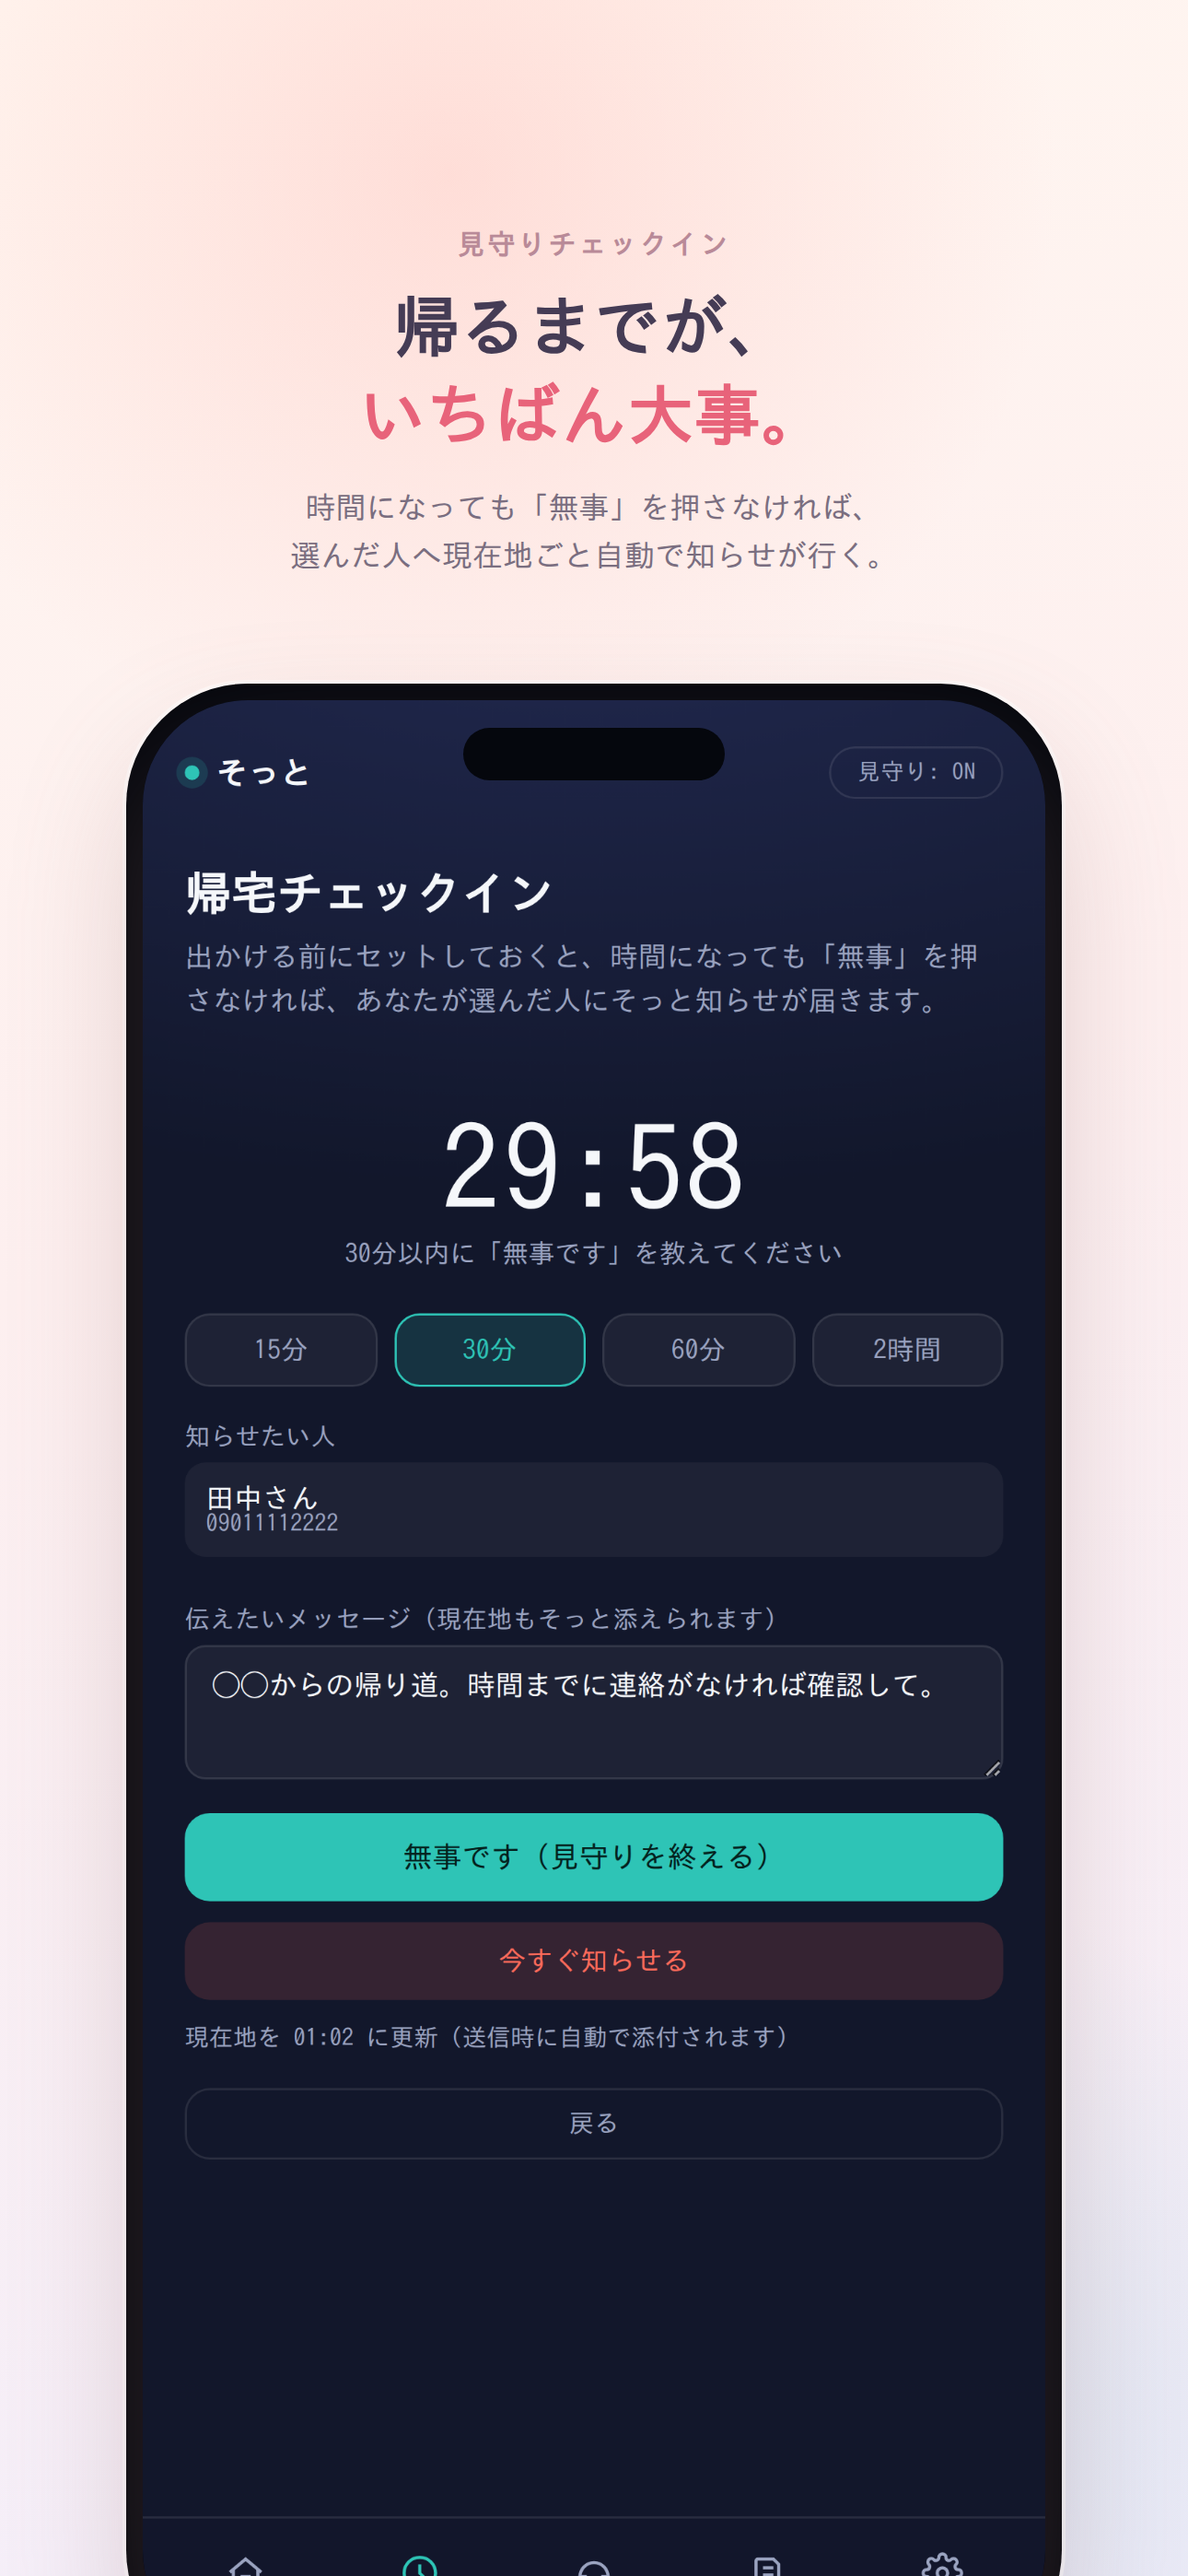
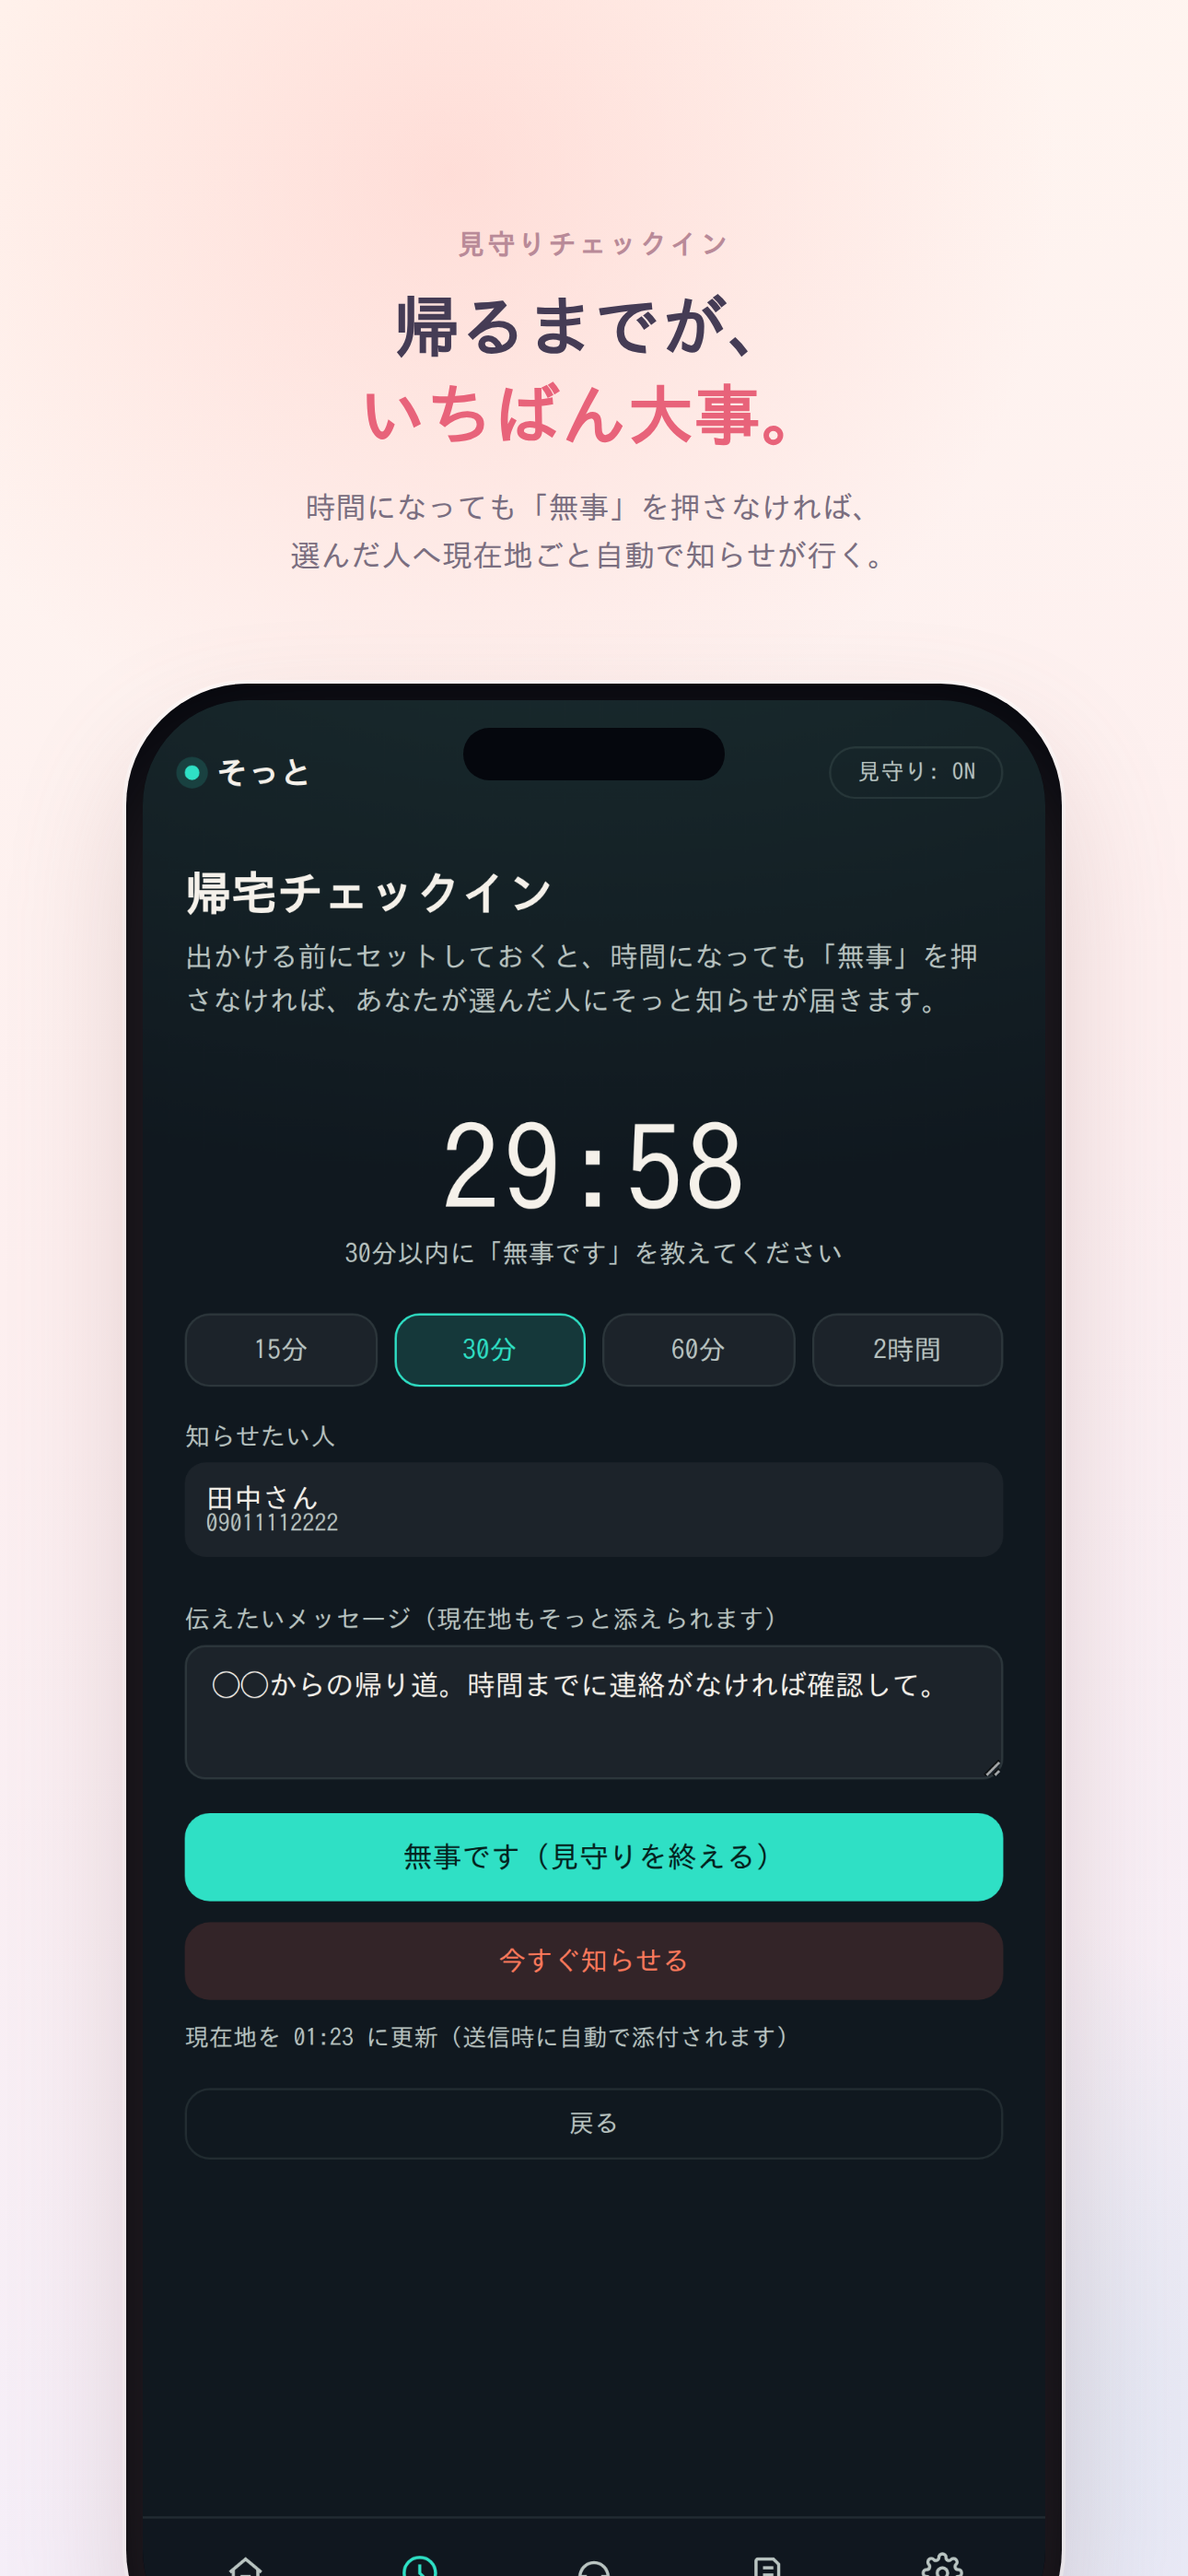
Redesign light/dark palette based on 2026 wellness-app color trends
Researched what top-performing apps (Headspace, Calm, Duolingo) and
current wellness/health UI trend reports converge on for 2026: avoid
pure white/pure black, light mode = warm paper background + slate text
+ one calm accent, dark mode = a deep *colored* base (not navy-black)
with a glowing/bioluminescent accent, muted mint replacing generic teal,
warm terracotta replacing saturated red-orange for the urgent action
color.

Applied consistently across all three places that define these colors:
- SafeLine/Assets.xcassets/*.colorset (the real app — Ink, TextPrimary/
  Secondary/Tertiary, CardFill, CardFillStrong, Border, Teal, Coral)
- prototype/safeline.html's :root (dark, the prototype's default)
- the screenshot generator's light-mode CSS override, updated to match
  the new Asset Catalog light values exactly rather than drift from them

Re-rendered all 10 marketing screenshots (5 dark + 5 light) with the
new palette.

diff --git a/prototype/safeline.html b/prototype/safeline.html
@@ -8,24 +8,24 @@
   @import url('https://fonts.googleapis.com/css2?family=Zen+Maru+Gothic:wght@400;500;700&family=IBM+Plex+Mono:wght@500;600&display=swap');
 
   :root{
-    --ink:#12172B;
-    --ink-2:#1B2140;
-    --panel:#20264A;
-    --line:rgba(245,247,250,0.10);
-    --text:#F5F7FA;
-    --text-dim:#9AA3C0;
-    --coral:#FF6B5B;
-    --coral-dim:rgba(255,107,91,0.18);
-    --teal:#2EC4B6;
-    --teal-dim:rgba(46,196,182,0.16);
-    --amber:#F5B942;
+    --ink:#10181F;
+    --ink-2:#1B2E30;
+    --panel:#17222B;
+    --line:rgba(200,225,220,0.10);
+    --text:#F5F1EA;
+    --text-dim:#B9C4C1;
+    --coral:#FF7A5C;
+    --coral-dim:rgba(255,122,92,0.18);
+    --teal:#2FE0C5;
+    --teal-dim:rgba(47,224,197,0.16);
+    --amber:#F0B84E;
   }
   *{box-sizing:border-box; -webkit-tap-highlight-color:transparent;}
   html,body{height:100%;}
   body{
     margin:0;
     background:
-      radial-gradient(1200px 600px at 50% -10%, #232B54 0%, var(--ink) 55%);
+      radial-gradient(1200px 600px at 50% -10%, #1B2E30 0%, var(--ink) 55%);
     color:var(--text);
     font-family:'Zen Maru Gothic',sans-serif;
     display:flex;
@@ -235,7 +235,7 @@
   .navbar{
     position:absolute; bottom:0; left:0; right:0;
     display:flex;
-    background:rgba(18,23,43,0.92);
+    background:rgba(16,24,31,0.92);
     backdrop-filter:blur(14px);
     border-top:1px solid var(--line);
     padding:10px 8px calc(10px + env(safe-area-inset-bottom));
